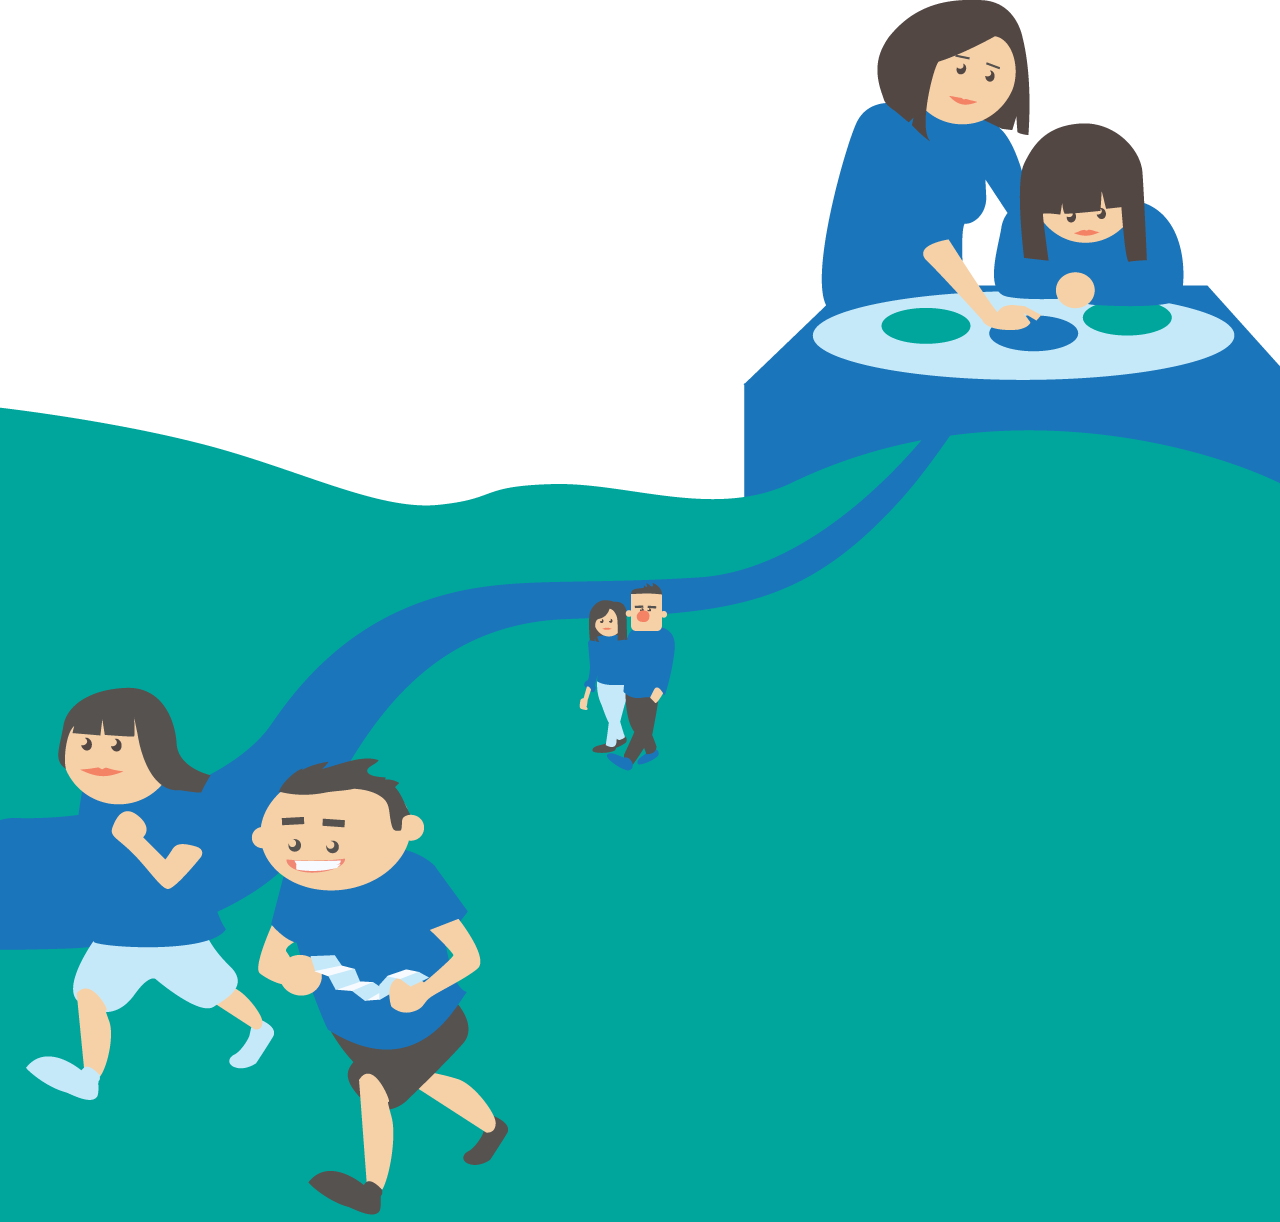
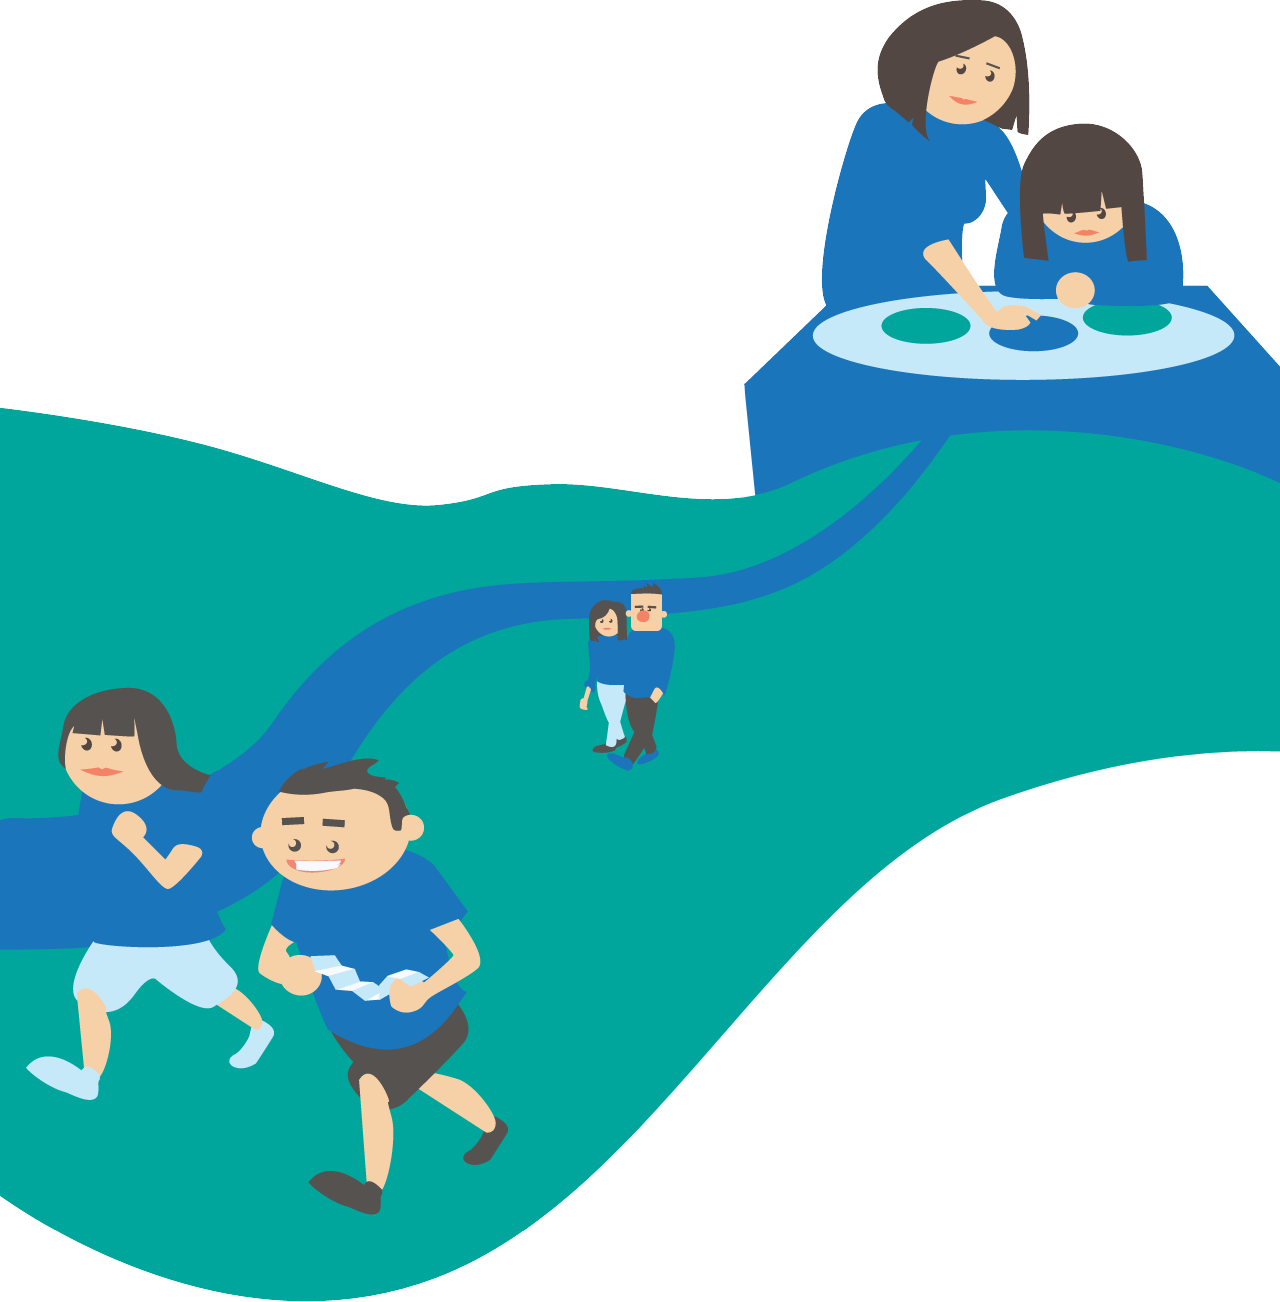
final kongeaaen

diff --git a/kg/index.html b/kg/index.html
@@ -30,14 +30,14 @@
 
 	<h2>The Concept</h2>
 	<img class='humanature' src='img/humanature.png'>
-	<p>Connecting human and nature. Putting humans in a natural context.</p>
+	<p>Connecting human and nature, putting humans in a natural context</p>
 
 	<img class='logo' src='img/logo.png'> </br>
 	<img class='logos' src='img/logos.png'>
 
 
 	<h2>The Challenge</h2>
-	<p>'HOW CAN WE CREATE A SERVICE PLATFORM THAT ENCOURAGE LERANING AND PLAYING BY DOING FOR A FAMILY AT KONGEÅEN?'</p>
+	<p>How might we create a family experience that enables learning and playing at the Kongeaaen?</p>
 
 	<h2>Meet the Hansens</h2>
 	<img class='hansens' src='img/hansens2.png'></br>
@@ -55,7 +55,7 @@
 <!--The Mirror House photo-->
 <div class='content'>
 		<img class='mirrorhouse' src='img/mirrorhouse.jpg'>
-		<p class='caption'>Partly camouflaged, partly obvious, The mirror cube allows reflection on the relationship between humanity and nature, and to see oneself within this context.</p></div>
+		<p class='caption'>Partly camouflaged, partly obvious, the mirror cube allows reflection on the relationship between humanity and nature, and to see oneself within this context</p></div>
 
 <!--trans-->
 <div class='D'><img class='transition' src='img/transition5.png'></div>
@@ -76,7 +76,7 @@
 	
 <!-- THE VIDEO -->
 	<iframe class='video' width="640" height="480" src="http://www.youtube.com/embed/gCdiJR17PcA" frameborder="0" allowfullscreen></iframe></br>
-	<span class='caption'>The narrative is designed so that past, present, nature and civilization</br>are brought together into one coherent 'storyline'.</span></p>
+	<span class='caption'>The narrative is designed so that past, present, nature and civilization</br>are brought together into one coherent 'storyline'</span></p>
 	</div>
 
 <!--trans-->
@@ -89,9 +89,26 @@
 <div class='content3'>
 	
 <!--MINI MAP PHOTO 1-->
-<img class='icons' src='img/icons.png'></br>
-	<p class='caption'>The mini-maps allows navigating the area and resonates with the touchscreen</p>
 
+
+<img class='mb1' src='img/flatmap.jpg'></br>
+	<p class='caption'>The map follows the walking path and points out areas of interest</p>
+
+<img class='mb3' src='img/icons.png'></br>
+	<p class='caption'>The icons on the map apply to the information on the touchscreen</p>
+
+<img class='mb2' src='img/matchboxb.jpg'></br>
+	<p class='caption'>it's easy to fold and small enough to fit any pocket</p>
+<!-- 
+<img class='mb4' src='img/matchboxa.jpg'></br>
+	<p class='caption'>The mini-maps allows navigating the area and resonates with the touchscreen</p> -->
+
+<img class='mb5' src='img/matchboxd.png'></br>
+	<p class='caption'>When put together, the three maps, one for each part of the path, complete the illustration on the back</p>
+
+
+
+<img class='we2' src='img/we2.png'>
 </body>
 </html>
 

diff --git a/kg/css/index.css b/kg/css/index.css
@@ -98,7 +98,7 @@
 
 		div.G {
 			position: relative;
-			background-color:#00a69c; 
+			background-color:#f7faff; 
 			top:-2px;
 		}
 
@@ -117,7 +117,7 @@
 
 	div.content3 {
 		float:none;
-		background: #00a69c;
+		background: #F7FAFF;
 		padding-bottom:200px;
 	}
 
@@ -165,6 +165,11 @@
 			margin:30px;
 		}
 
+		img.we2 {
+			margin-top:250px;
+			margin-bottom:15px;
+		}
+
 		img.hansens {
 			margin:30px;
 			margin-bottom:100px;
@@ -183,6 +188,40 @@
 			width:600px;
 		}
 
+		img.mb1 {
+			width:940px;
+			margin-top:80px;
+			border-radius: 4px;
+			box-shadow: 1px 1px 11px rgba(50, 50, 50, 0.69);			
+		}
+
+		img.mb2 {
+			width:600px;
+			margin-top:130px;
+			border-radius: 4px;
+			box-shadow: 1px 1px 11px rgba(50, 50, 50, 0.69);
+
+		}
+
+		img.mb3 {
+			width:600px;
+			margin-top:130px;
+
+		}
+
+		img.mb4 {
+			width:600px;
+			margin-top:130px;
+			border-radius: 4px;
+			box-shadow: 1px 1px 11px rgba(50, 50, 50, 0.69);
+
+		}
+
+		img.mb5 {
+			width:640px;
+			margin-top:130px;
+		}
+
 /* TEXTS */
 
 		h2 {
@@ -198,6 +237,10 @@
 			font-style: normal;	
 			}
 
+		h2.fin {
+			margin-top:300px;
+			margin-bottom:200px;
+		}
 
 		p {
 			font-size: 16px;
